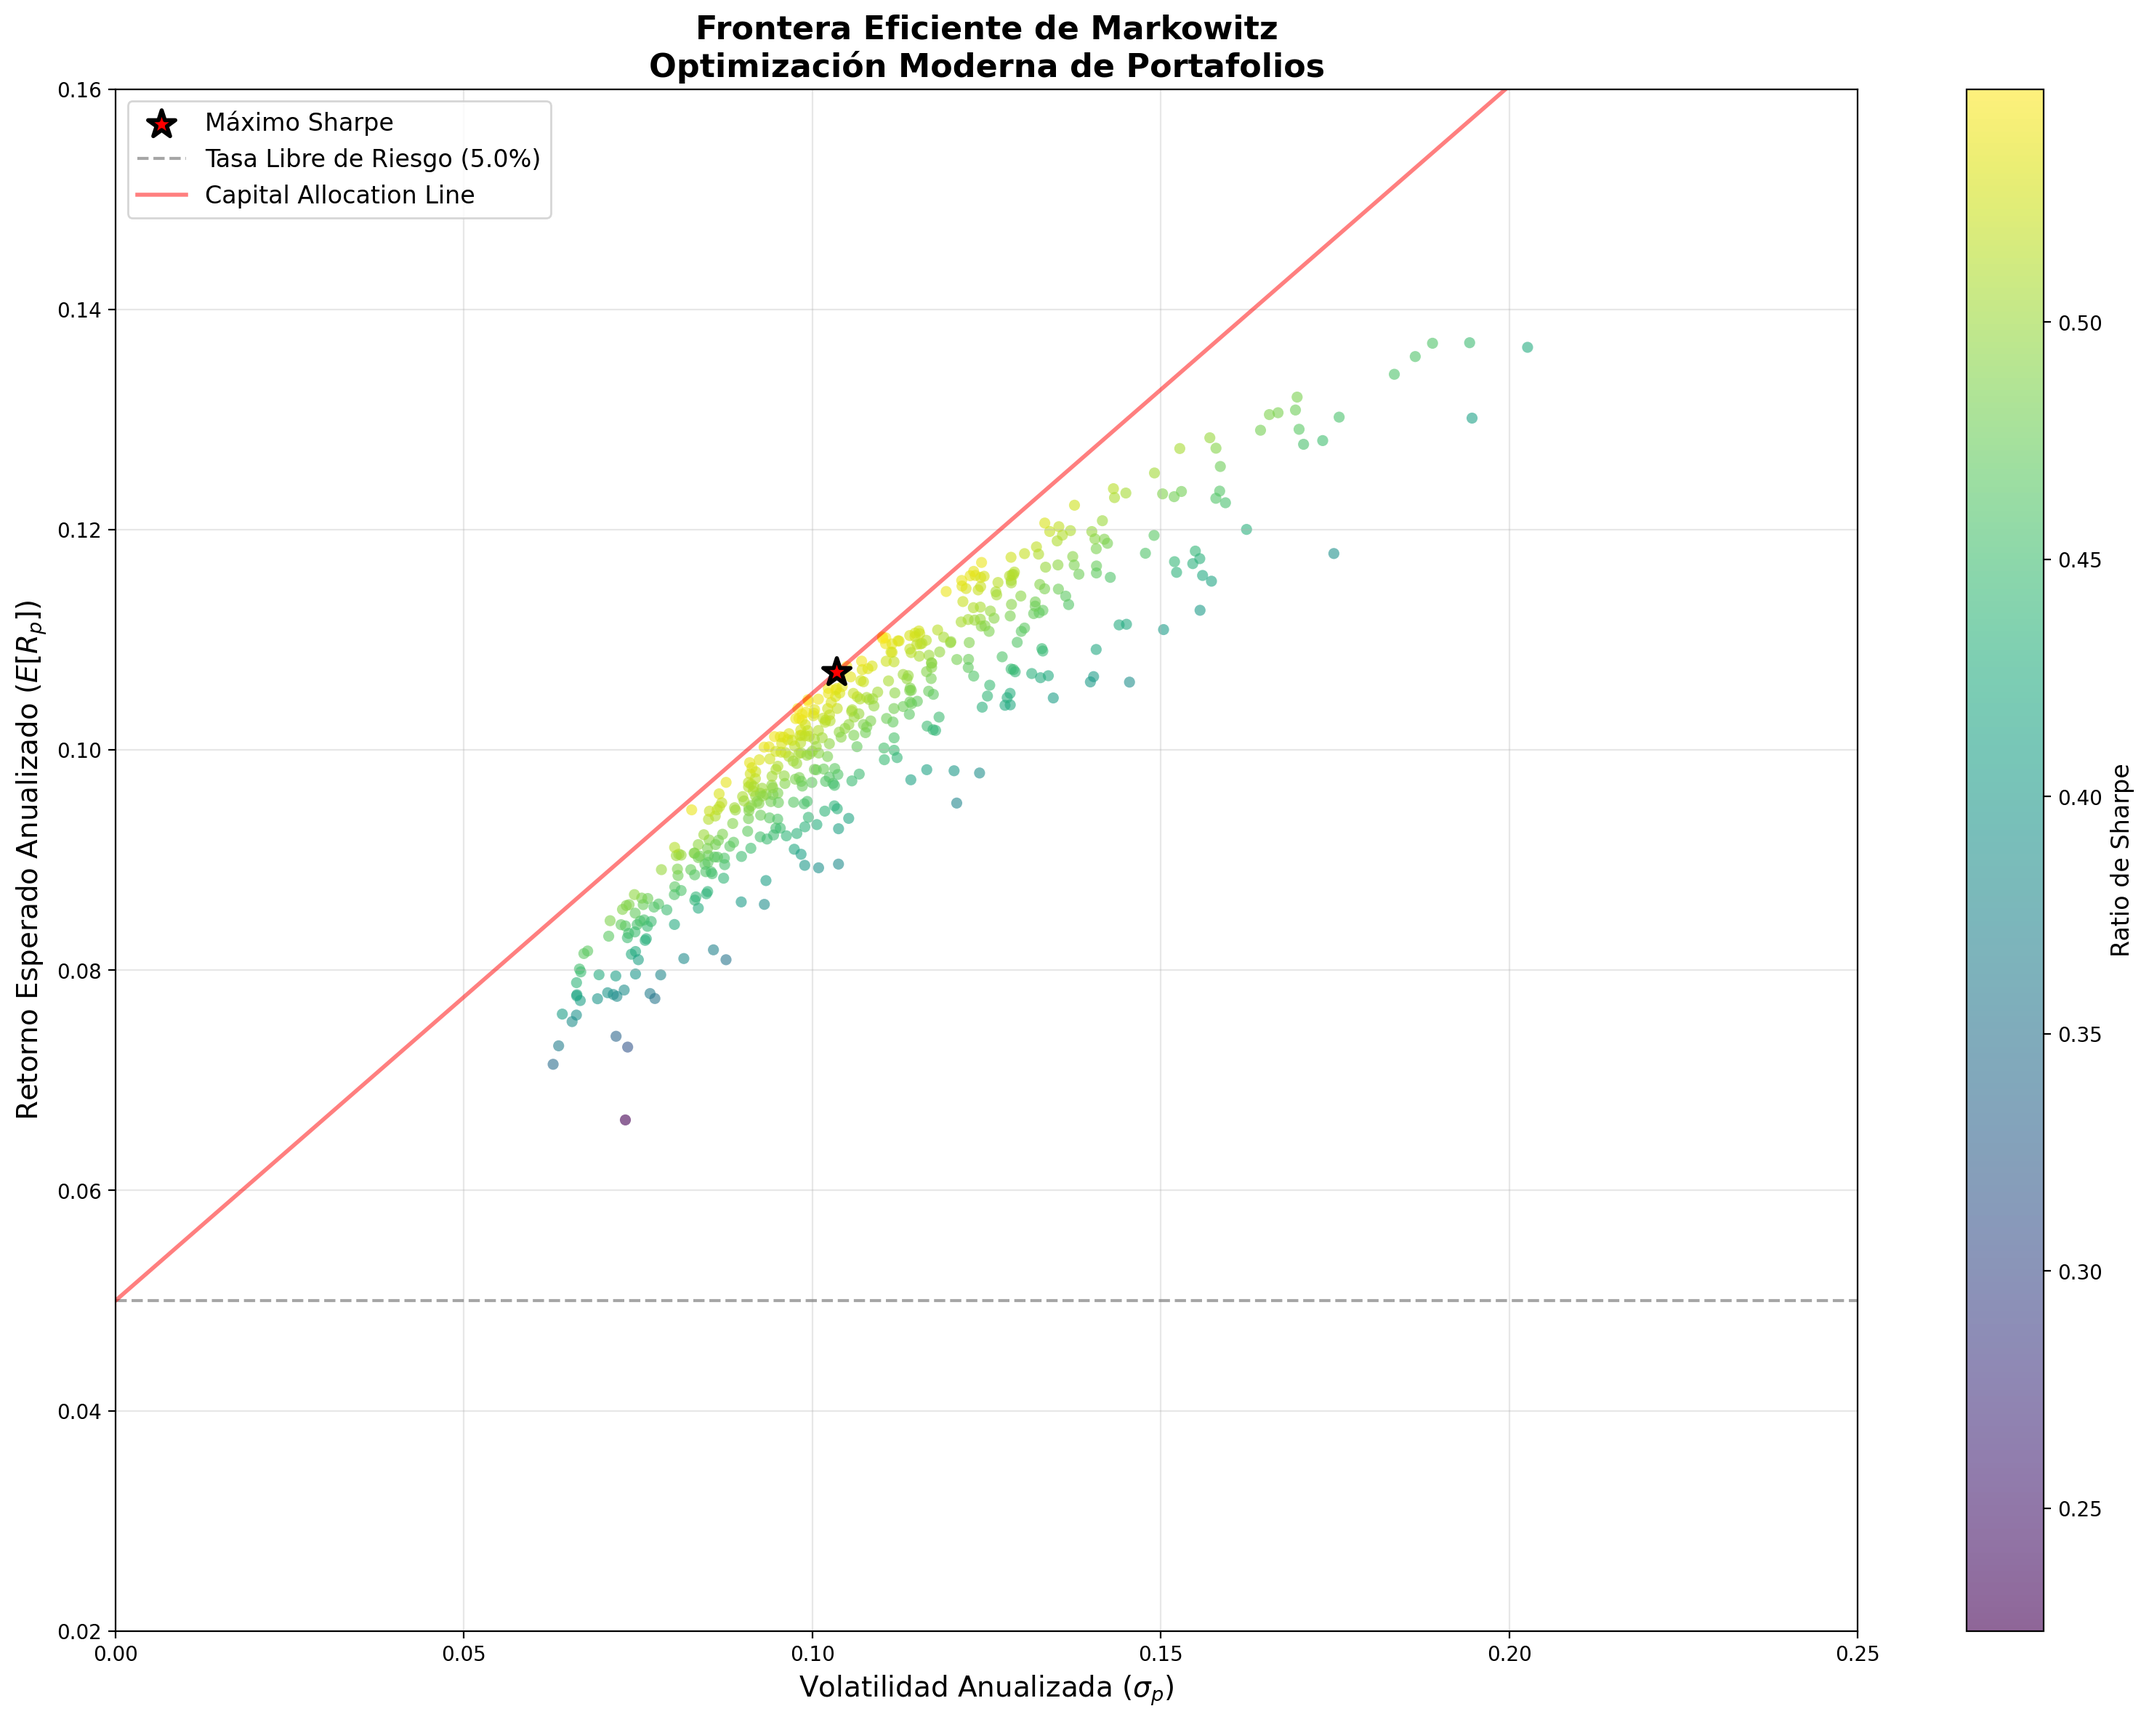
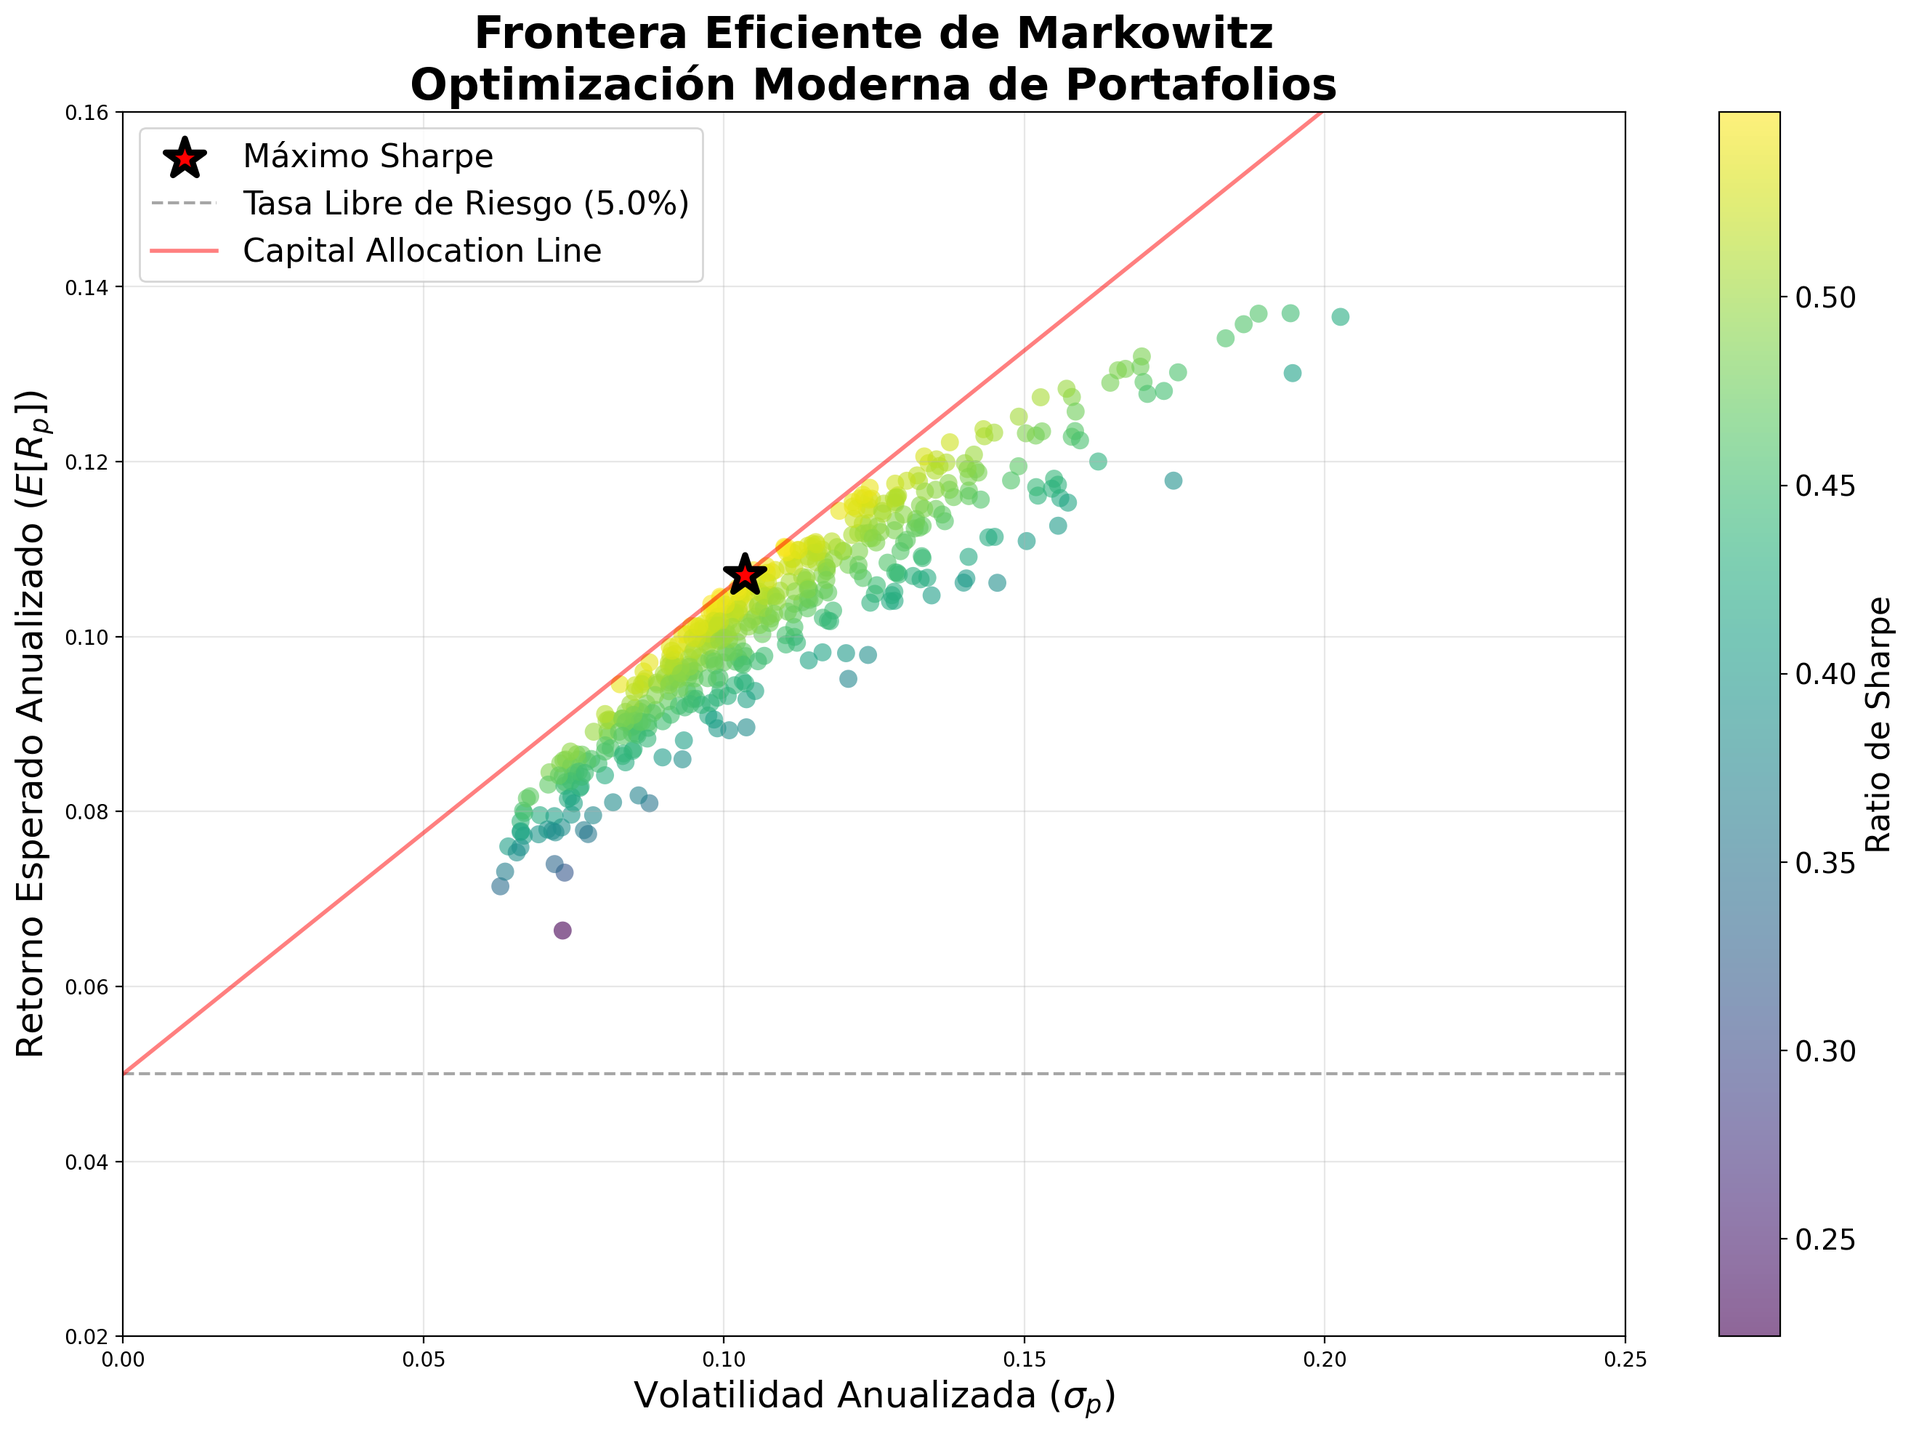
1
1

diff --git a/scripts/generate_risk_management_advanced.py b/scripts/generate_risk_management_advanced.py
@@ -32,11 +32,11 @@ ax1.hist(returns, bins=n_bins, density=True, alpha=0.7, color='steelblue',
          edgecolor='white', label='Distribución Empírica')
 
 # Línea de VaR
-ax1.axvline(x=var_95, color='red', linestyle='--', linewidth=2, 
+ax1.axvline(x=var_95, color='red', linestyle='--', linewidth=3, 
             label=f'VaR 95% = {var_95:.2%}')
 
 # Línea de CVaR
-ax1.axvline(x=cvar_95, color='orange', linestyle='-', linewidth=2, 
+ax1.axvline(x=cvar_95, color='orange', linestyle='-', linewidth=3, 
             label=f'CVaR 95% = {cvar_95:.2%}')
 
 # Ajustar densidad KDE
@@ -54,11 +54,12 @@ ax1.fill_between(tail_x, 0, tail_density, alpha=0.3, color='red')
 x_range = np.linspace(returns.min(), returns.max(), 200)
 ax1.plot(x_range, kde(x_range), 'k-', linewidth=2, alpha=0.8, label='Densidad KDE')
 
-ax1.set_xlabel('Retornos Diarios', fontsize=12)
-ax1.set_ylabel('Densidad', fontsize=12)
-ax1.set_title('Value at Risk (VaR) vs Expected Shortfall (CVaR)', fontsize=13, fontweight='bold')
-ax1.legend(fontsize=10)
+ax1.set_xlabel('Retornos Diarios', fontsize=16)
+ax1.set_ylabel('Densidad', fontsize=16)
+ax1.set_title('Value at Risk (VaR) vs Expected Shortfall (CVaR)', fontsize=18, fontweight='bold')
+ax1.legend(fontsize=13)
 ax1.grid(True, alpha=0.3)
+ax1.tick_params(labelsize=12)
 
 # === Gráfico 2: Simulación Monte Carlo ===
 # Simular trayectoria de precios
@@ -80,7 +81,7 @@ stress_path_returns = np.random.normal(daily_mean, daily_vol * 1.5, n_days)
 # Insertar un crash en el día 150
 stress_path_returns[145:155] -= 0.03
 stress_path = initial_price * np.cumprod(1 + stress_path_returns)
-ax2.plot(stress_path, 'r-', linewidth=2, alpha=0.8, label='Escenario de Stress')
+ax2.plot(stress_path, 'r-', linewidth=3, alpha=0.8, label='Escenario de Stress')
 
 # Calcular drawdown
 cummax = np.maximum.accumulate(stress_path)
@@ -90,15 +91,16 @@ max_drawdown = drawdown.min()
 ax2.annotate(f'Máx Drawdown: {max_drawdown:.1%}',
              xy=(np.argmin(stress_path), stress_path.min()),
              xytext=(100, stress_path.min() + 5),
-             arrowprops=dict(arrowstyle='->', color='red'),
-             fontsize=10, color='red', fontweight='bold')
+             arrowprops=dict(arrowstyle='->', color='red', lw=3),
+             fontsize=14, color='red', fontweight='bold')
 
-ax2.set_xlabel('Días de Trading', fontsize=12)
-ax2.set_ylabel('Precio del Activo ($)', fontsize=12)
-ax2.set_title('Simulación Monte Carlo con Escenario de Stress', fontsize=13, fontweight='bold')
-ax2.legend(fontsize=10)
+ax2.set_xlabel('Días de Trading', fontsize=16)
+ax2.set_ylabel('Precio del Activo ($)', fontsize=16)
+ax2.set_title('Simulación Monte Carlo con Escenario de Stress', fontsize=18, fontweight='bold')
+ax2.legend(fontsize=13)
 ax2.grid(True, alpha=0.3)
 ax2.set_xlim(0, n_days)
+ax2.tick_params(labelsize=12)
 
 # === Gráfico 3: Comparación de métodos de VaR ===
 methods = ['Histórico', 'Paramétrico\n(Normal)', 'Monte Carlo', 'CVaR\n(Expected Shortfall)']
@@ -112,20 +114,21 @@ cvar_value = returns[returns <= var_historical].mean()
 values = [var_historical, var_parametric, var_monte_carlo, cvar_value]
 colors = ['steelblue', 'orange', 'green', 'red']
 
-bars = ax3.barh(methods, [-v for v in values], color=colors, alpha=0.8, edgecolor='black')
-ax3.set_xlabel('Pérdida Máxima Esperada', fontsize=12)
-ax3.set_title('Comparación de Métodos de VaR (95% Confianza)', fontsize=13, fontweight='bold')
+bars = ax3.barh(methods, [-v for v in values], color=colors, alpha=0.8, edgecolor='black', linewidth=1.5)
+ax3.set_xlabel('Pérdida Máxima Esperada', fontsize=16)
+ax3.set_title('Comparación de Métodos de VaR (95% Confianza)', fontsize=18, fontweight='bold')
 ax3.grid(True, alpha=0.3, axis='x')
+ax3.tick_params(labelsize=12)
 
 # Añadir valores en las barras
 for bar, val in zip(bars, values):
     ax3.text(-val + 0.001, bar.get_y() + bar.get_height()/2, 
-             f'{val:.2%}', va='center', ha='left', fontsize=10, fontweight='bold')
+             f'{val:.2%}', va='center', ha='left', fontsize=13, fontweight='bold')
 
 # Nota explicativa
 fig.text(0.5, -0.02, 
          'El CVaR siempre es mayor (más conservador) que el VaR, ya que mide la pérdida promedio en la cola de la distribución.',
-         ha='center', fontsize=10, style='italic', bbox=dict(boxstyle='round', facecolor='wheat', alpha=0.5))
+         ha='center', fontsize=12, style='italic', bbox=dict(boxstyle='round', facecolor='wheat', alpha=0.5))
 
 plt.tight_layout()
 plt.savefig('images/risk-management-advanced.png', dpi=200, bbox_inches='tight')

diff --git a/scripts/generate_tetration_truncated.py b/scripts/generate_tetration_truncated.py
@@ -31,7 +31,7 @@ colors = ['#1f77b4', '#ff7f0e', '#2ca02c', '#d62728']
 labels = [f'$^{{{n}}}x$ (orden {n})' for n in orders]
 
 # Crear figura con 2 subgráficos
-fig, (ax1, ax2) = plt.subplots(1, 2, figsize=(20, 10))
+fig, (ax1, ax2) = plt.subplots(1, 2, figsize=(18, 8))
 
 # === Gráfico 1: Funciones de tetración truncada ===
 for i, n in enumerate(orders):
@@ -48,18 +48,19 @@ for i, n in enumerate(orders):
             except (OverflowError, ValueError):
                 y_values.append(np.nan)
         
-        ax1.plot(x_range, y_values, color=colors[i], linewidth=2, 
+        ax1.plot(x_range, y_values, color=colors[i], linewidth=3, 
                  alpha=0.8, label=labels[i], zorder=5-i)
     except Exception as e:
         print(f"Error calculando orden {n}: {e}")
 
-ax1.set_xlabel('$x$', fontsize=14)
-ax1.set_ylabel('piso(n)', fontsize=14)
-ax1.set_title('Tetración Truncada: $x^{x^{\\cdot^{\\cdot^x}}}$', fontsize=15, fontweight='bold')
-ax1.legend(fontsize=12, loc='upper left')
+ax1.set_xlabel('$x$', fontsize=18)
+ax1.set_ylabel('piso(n)', fontsize=18)
+ax1.set_title('Tetración Truncada: $x^{x^{\\cdot^{\\cdot^x}}}$', fontsize=20, fontweight='bold')
+ax1.legend(fontsize=15, loc='upper left')
 ax1.grid(True, alpha=0.3)
 ax1.set_xlim(0.1, 2.0)
 ax1.set_ylim(0, 50)
+ax1.tick_params(labelsize=13)
 
 # === Gráfico 2: Diagrama de la estructura recursiva ===
 ax2.axis('off')
@@ -80,17 +81,17 @@ def_box = FancyBboxPatch((1.5, 2.0), 7, 1.5,
                          linewidth=2, edgecolor='navy', facecolor='lightblue', alpha=0.5)
 ax2.add_patch(def_box)
 ax2.text(5, 2.75, r'piso(n) = x^piso(n-1)', 
-         fontsize=14, ha='center', va='center', fontweight='bold', color='navy')
+         fontsize=16, ha='center', va='center', fontweight='bold', color='navy')
 ax2.text(5, 2.3, r'con piso(1) = x', 
-         fontsize=12, ha='center', va='center', style='italic', color='navy')
+         fontsize=14, ha='center', va='center', style='italic', color='navy')
 
 # Flechas de recursión
 for i in range(len(tower_text) - 1):
     ax2.annotate('', xy=(5, tower_text[i+1][1] + 0.4), 
                  xytext=(5, tower_text[i][1] - 0.3),
-                 arrowprops=dict(arrowstyle='->', color='red', lw=2))
+                 arrowprops=dict(arrowstyle='->', color='red', lw=3))
     ax2.text(5.5, (tower_text[i][1] + tower_text[i+1][1]) / 2,
-             f'$x^{{(\\cdot)}}$', fontsize=12, color='red', 
+             f'$x^{{(\\cdot)}}$', fontsize=14, color='red', 
              va='center', fontweight='bold')
 
 # Dibujar nodos de la torre
@@ -101,13 +102,13 @@ for i, (x, y, text, label) in enumerate(tower_text):
                          linewidth=2, edgecolor=colors[i % len(colors)], 
                          facecolor='white', alpha=0.9)
     ax2.add_patch(box)
-    ax2.text(x, y, text, fontsize=14, ha='center', va='center', 
+    ax2.text(x, y, text, fontsize=16, ha='center', va='center', 
              color=colors[i % len(colors)], fontweight='bold')
-    ax2.text(x, y - 0.7, label, fontsize=10, ha='center', va='center', 
+    ax2.text(x, y - 0.7, label, fontsize=12, ha='center', va='center', 
              color='gray', style='italic')
 
 ax2.set_title('Estructura Recursiva de la Tetración Truncada', 
-              fontsize=15, fontweight='bold', pad=20)
+              fontsize=20, fontweight='bold', pad=20)
 
 # Añadir nota sobre convergencia
 note_text = (
@@ -115,7 +116,7 @@ note_text = (
     "la tetración infinita converge. Fuera de este intervalo, \n"
     "los valores crecen extremadamente rápido o divergen."
 )
-fig.text(0.5, 0.02, note_text, ha='center', fontsize=10, style='italic',
+fig.text(0.5, 0.02, note_text, ha='center', fontsize=12, style='italic',
          bbox=dict(boxstyle='round', facecolor='wheat', alpha=0.5))
 
 plt.tight_layout()

diff --git a/scripts/generate_risk_parity_comparison.py b/scripts/generate_risk_parity_comparison.py
@@ -90,7 +90,7 @@ mw_trc, mw_total_vol = calculate_trc(mw_weights, cov_matrix)
 rp_trc, rp_total_vol = calculate_trc(rp_weights, cov_matrix)
 
 # Crear figura con 2 subgráficos
-fig, (ax1, ax2) = plt.subplots(1, 2, figsize=(20, 10))
+fig, (ax1, ax2) = plt.subplots(1, 2, figsize=(18, 8))
 
 # Gráfico 1: Frontera eficiente con ambos portafolios
 n_portfolios = 400
@@ -100,17 +100,17 @@ frontier_vols = np.sqrt(np.einsum("ij,jk,ik->i", w_mat, cov_matrix, w_mat))
 sharpe_ratios = (frontier_returns - risk_free_rate) / frontier_vols
 
 ax1.scatter(frontier_vols, frontier_returns, c=sharpe_ratios, cmap='viridis', 
-            alpha=0.5, s=25, edgecolors='none')
-ax1.scatter(mw_vol, mw_return, color='red', s=200, marker='*', 
-            edgecolors='black', linewidth=2, zorder=5, label='Markowitz (Max Sharpe)')
-ax1.scatter(rp_vol, rp_return, color='blue', s=180, marker='D', 
-            edgecolors='black', linewidth=2, zorder=5, label='Risk Parity')
+            alpha=0.5, s=60, edgecolors='none')
+ax1.scatter(mw_vol, mw_return, color='red', s=350, marker='*', 
+            edgecolors='black', linewidth=3, zorder=5, label='Markowitz (Max Sharpe)')
+ax1.scatter(rp_vol, rp_return, color='blue', s=300, marker='D', 
+            edgecolors='black', linewidth=3, zorder=5, label='Risk Parity')
 ax1.axhline(y=risk_free_rate, color='gray', linestyle='--', alpha=0.5, label='Tasa Libre de Riesgo')
 
-ax1.set_xlabel('Volatilidad Anualizada ($\sigma_p$)', fontsize=12)
-ax1.set_ylabel('Retorno Esperado Anualizado ($E[R_p]$', fontsize=12)
-ax1.set_title('Frontera Eficiente: Markowitz vs Risk Parity', fontsize=14, fontweight='bold')
-ax1.legend(fontsize=10)
+ax1.set_xlabel('Volatilidad Anualizada ($\sigma_p$)', fontsize=16)
+ax1.set_ylabel('Retorno Esperado Anualizado ($E[R_p]$', fontsize=16)
+ax1.set_title('Frontera Eficiente: Markowitz vs Risk Parity', fontsize=18, fontweight='bold')
+ax1.legend(fontsize=13)
 ax1.grid(True, alpha=0.3)
 ax1.set_xlim(0, 0.22)
 ax1.set_ylim(0.04, 0.15)
@@ -120,19 +120,19 @@ x_pos = np.arange(n_assets)
 width = 0.35
 
 # Barras de pesos
-ax2.bar(x_pos - width/2, mw_weights, width, label='Markowitz Pesos', alpha=0.8, color='red')
-ax2.bar(x_pos + width/2, rp_weights, width, label='Risk Parity Pesos', alpha=0.8, color='blue')
+ax2.bar(x_pos - width/2, mw_weights, width, label='Markowitz Pesos', alpha=0.8, color='red', edgecolor='black', linewidth=1.5)
+ax2.bar(x_pos + width/2, rp_weights, width, label='Risk Parity Pesos', alpha=0.8, color='blue', edgecolor='black', linewidth=1.5)
 
 # Líneas de contribución al riesgo objetivo
 ax2.axhline(y=rp_total_vol/n_assets, color='blue', linestyle=':', alpha=0.7, 
             label=f'Risk Parity TRC Objetivo ({rp_total_vol/n_assets:.2%})')
 
-ax2.set_xlabel('Activos', fontsize=12)
-ax2.set_ylabel('Peso / Contribución al Riesgo', fontsize=12)
-ax2.set_title('Distribución de Pesos y Riesgo', fontsize=14, fontweight='bold')
+ax2.set_xlabel('Activos', fontsize=16)
+ax2.set_ylabel('Peso / Contribución al Riesgo', fontsize=16)
+ax2.set_title('Distribución de Pesos y Riesgo', fontsize=18, fontweight='bold')
 ax2.set_xticks(x_pos)
-ax2.set_xticklabels([f'Activo {i+1}\n(σ={v:.0%})' for i, v in enumerate(volatilities)], fontsize=10)
-ax2.legend(fontsize=10)
+ax2.set_xticklabels([f'Activo {i+1}\n(σ={v:.0%})' for i, v in enumerate(volatilities)], fontsize=13)
+ax2.legend(fontsize=13)
 ax2.grid(True, alpha=0.3, axis='y')
 
 plt.tight_layout()

diff --git a/scripts/generate_markowitz_frontier.py b/scripts/generate_markowitz_frontier.py
@@ -68,15 +68,15 @@ frontier_vols = np.sqrt(np.einsum("ij,jk,ik->i", w_mat, cov_matrix, w_mat))
 sharpe_ratios = (frontier_returns - risk_free_rate) / frontier_vols
 
 # Crear la figura
-fig, ax = plt.subplots(figsize=(16, 12))
+fig, ax = plt.subplots(figsize=(14, 10))
 
 # Scatter de portafolios aleatorios coloreados por Sharpe
 scatter = ax.scatter(frontier_vols, frontier_returns, c=sharpe_ratios,
-                     cmap='viridis', alpha=0.6, s=30, edgecolors='none')
+                     cmap='viridis', alpha=0.6, s=80, edgecolors='none')
 
 # Portafolio de máximo Sharpe
-ax.scatter(optimal_vol, optimal_return, color='red', s=200, 
-           marker='*', edgecolors='black', linewidth=2, zorder=5, label='Máximo Sharpe')
+ax.scatter(optimal_vol, optimal_return, color='red', s=400, 
+           marker='*', edgecolors='black', linewidth=3, zorder=5, label='Máximo Sharpe')
 
 # Línea de la tasa libre de riesgo
 ax.axhline(y=risk_free_rate, color='gray', linestyle='--', alpha=0.7, label=f'Tasa Libre de Riesgo ({risk_free_rate*100}%)')
@@ -87,15 +87,16 @@ cal = risk_free_rate + optimal_sharpe * vol_range
 ax.plot(vol_range, cal, 'r-', alpha=0.5, linewidth=2, label='Capital Allocation Line')
 
 # Configurar el gráfico
-ax.set_xlabel('Volatilidad Anualizada ($\sigma_p$)', fontsize=14)
-ax.set_ylabel('Retorno Esperado Anualizado ($E[R_p]$)', fontsize=14)
-ax.set_title('Frontera Eficiente de Markowitz\nOptimización Moderna de Portafolios', fontsize=16, fontweight='bold')
-ax.legend(fontsize=12, loc='upper left')
+ax.set_xlabel('Volatilidad Anualizada ($\sigma_p$)', fontsize=18)
+ax.set_ylabel('Retorno Esperado Anualizado ($E[R_p]$)', fontsize=18)
+ax.set_title('Frontera Eficiente de Markowitz\nOptimización Moderna de Portafolios', fontsize=22, fontweight='bold')
+ax.legend(fontsize=16, loc='upper left')
 ax.grid(True, alpha=0.3)
 
 # Agregar barra de color
 cbar = plt.colorbar(scatter, ax=ax)
-cbar.set_label('Ratio de Sharpe', fontsize=12)
+cbar.set_label('Ratio de Sharpe', fontsize=16)
+cbar.ax.tick_params(labelsize=14)
 
 # Límites
 ax.set_xlim(0, 0.25)
